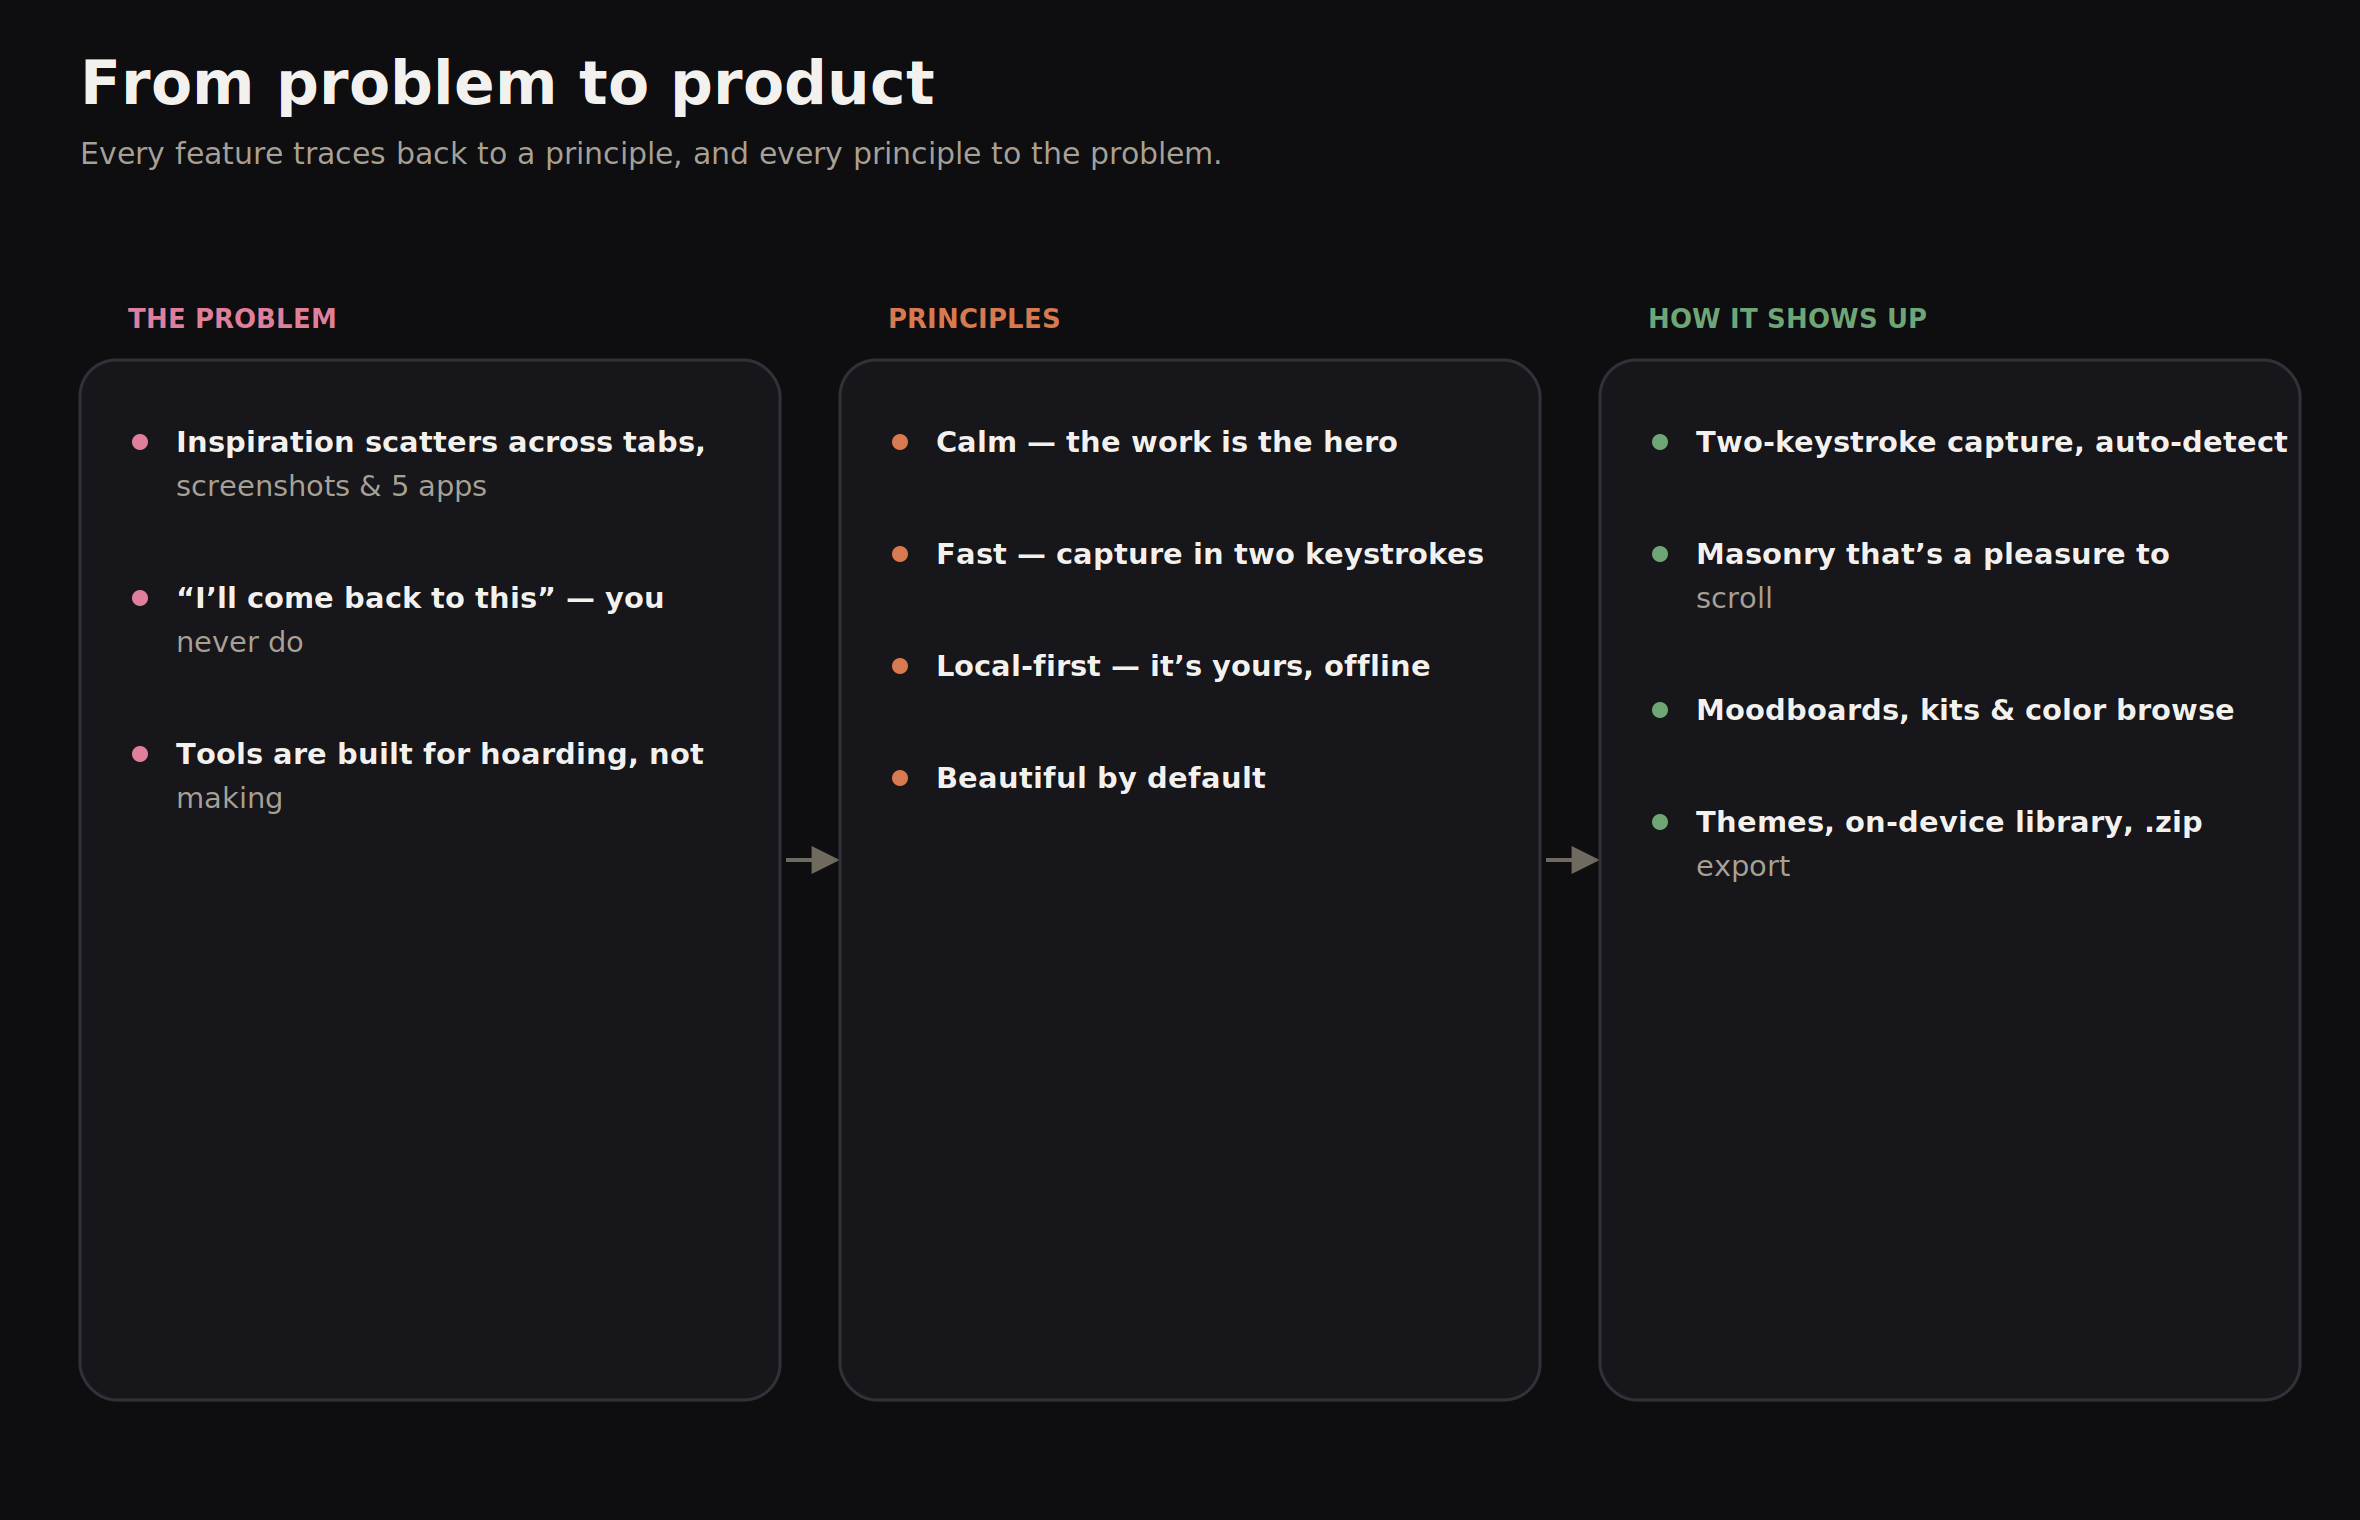
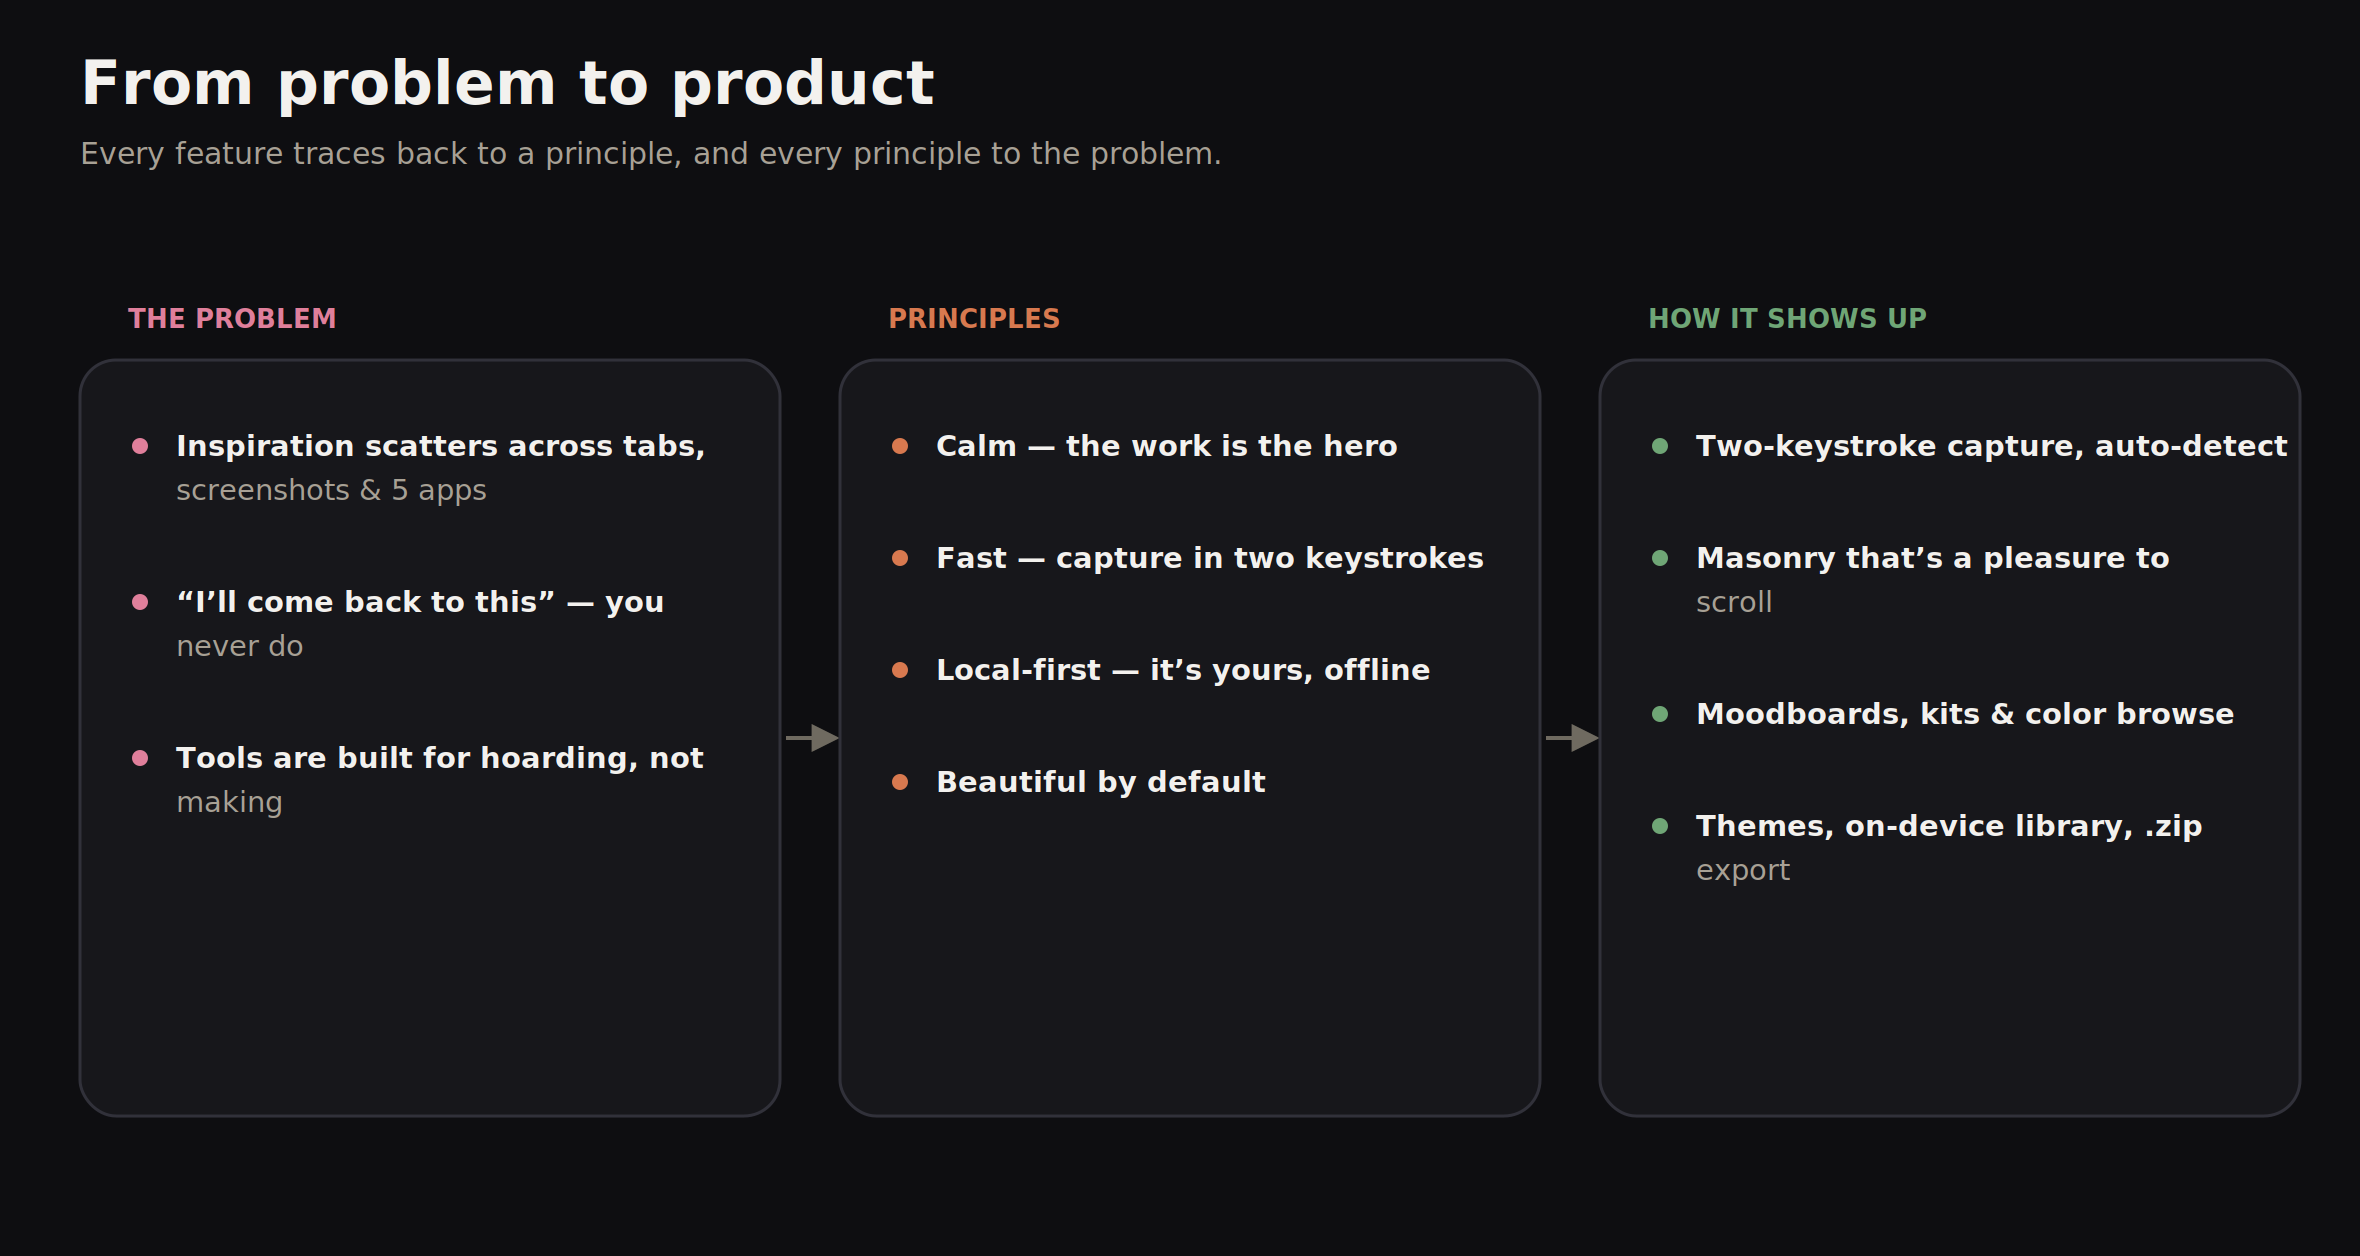
Clean up static dark diagrams; drop animated versions
- Fix design-system: Tile/Toggle/Palette swatch labels were overlapping their
  elements and the panel border — labels now sit centered below each, panels
  extended to fit.
- Tighten problem→principles: removed dead vertical space, columns fit content,
  connector arrows centered.
- Trim the architecture device panel's empty bottom; align with the online cards.
- Remove the animated diagram MP4s (static-only now) and update copy.md.

Claude-Session: https://claude.ai/code/session_01DoAgfmgAZbLEhS8eb3pJGY

diff --git a/docs/case-study/framer-pack/copy.md b/docs/case-study/framer-pack/copy.md
@@ -24,7 +24,7 @@
   `06-item-detail`, `07-command-palette`, `08-settings-stats`, `09-settings-themes`,
   `10-library-warm`, `11-library-sage`, `12-library-sky`, `13-library-rose`
 
-**Diagrams** (`/diagrams`, each as static PNG + animated MP4)
+**Diagrams** (`/diagrams`, high-res static PNG)
 - `forage-loop`, `user-flow`, `information-architecture`, `design-system`,
   `problem-principles`, `architecture`
 
@@ -66,7 +66,7 @@ Creative work generates two relentless streams that both leak — and no tool is
 
 **Tools for hoarding** — bookmark managers and cloud drives are built to *store*, not to *make*. Nothing resurfaces at the moment you’re actually building something.
 
-`[ASSET: diagrams/problem-principles — static PNG or animated MP4]`
+`[ASSET: diagrams/problem-principles]`
 
 ---
 
@@ -87,17 +87,17 @@ I rejected the folder hierarchy early — it’s where inspiration goes to die. 
 - An “Unfiltered” inbox so nothing has to be filed to be saved
 - A deep but shallow settings spine — power without clutter
 
-`[ASSET: diagrams/forage-loop — static PNG or animated MP4]`
+`[ASSET: diagrams/forage-loop]`
 
 ### The shortest path from a found thing to finished work.
 
 The core flow has one job: remove friction between saving something and using it. Capture auto‑detects type, palette, and source. The decision “file it now?” is never forced — you can triage later from the inbox. From a collection you’re one click from a moodboard or a brand kit.
 
-`[ASSET: diagrams/user-flow — static PNG or animated MP4]`
+`[ASSET: diagrams/user-flow]`
 
 ### Information architecture — five surfaces for one loop.
 
-`[ASSET: diagrams/information-architecture — static PNG or animated MP4]`
+`[ASSET: diagrams/information-architecture]`
 
 ---
 
@@ -163,7 +163,7 @@ A command palette (⌘K) searches every save and jumps to any view or command. F
 
 Calm is an engineering problem as much as a visual one. I built Forage on a small set of tokens — a type scale, color tokens, one corner & elevation language — so every new surface inherits the feel instead of re‑inventing it.
 
-`[ASSET: diagrams/design-system — static PNG or animated MP4]`
+`[ASSET: diagrams/design-system]`
 
 - **Motion** — Spring‑based and restrained. Tiles settle, sheets glide, the theme toggle cross‑fades. Nothing bounces for the sake of it.
 - **Sound** — Optional, synthesized UI sounds with a “variety” mode and a distinct trash cue — designed, not stock.
@@ -179,7 +179,7 @@ Designing and building it myself meant every interaction survived the trip from 
 
 `Stack:` React · TypeScript · Tailwind v4 · Framer Motion · IndexedDB · PWA · Tauri 2 · Cloudflare Workers
 
-`[ASSET: diagrams/architecture — static PNG or animated MP4]`
+`[ASSET: diagrams/architecture]`
 
 ---
 